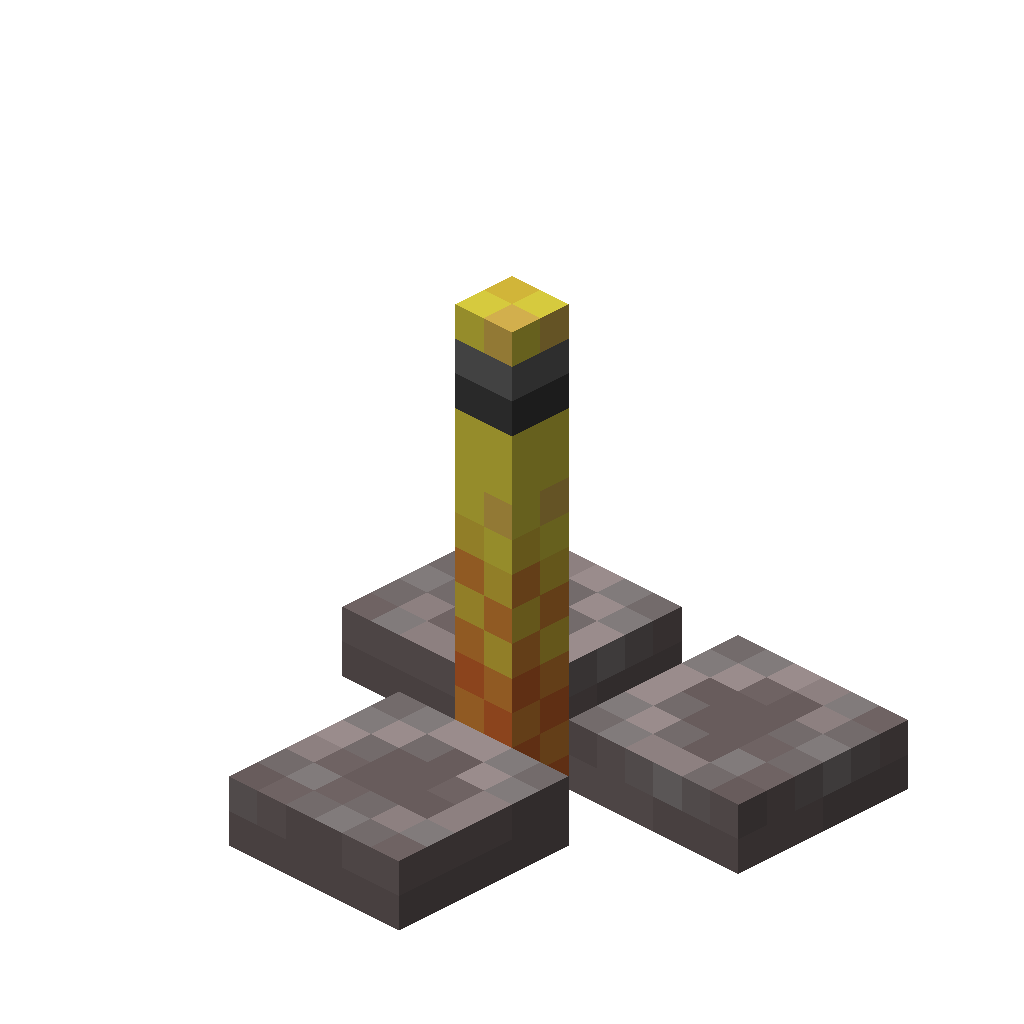
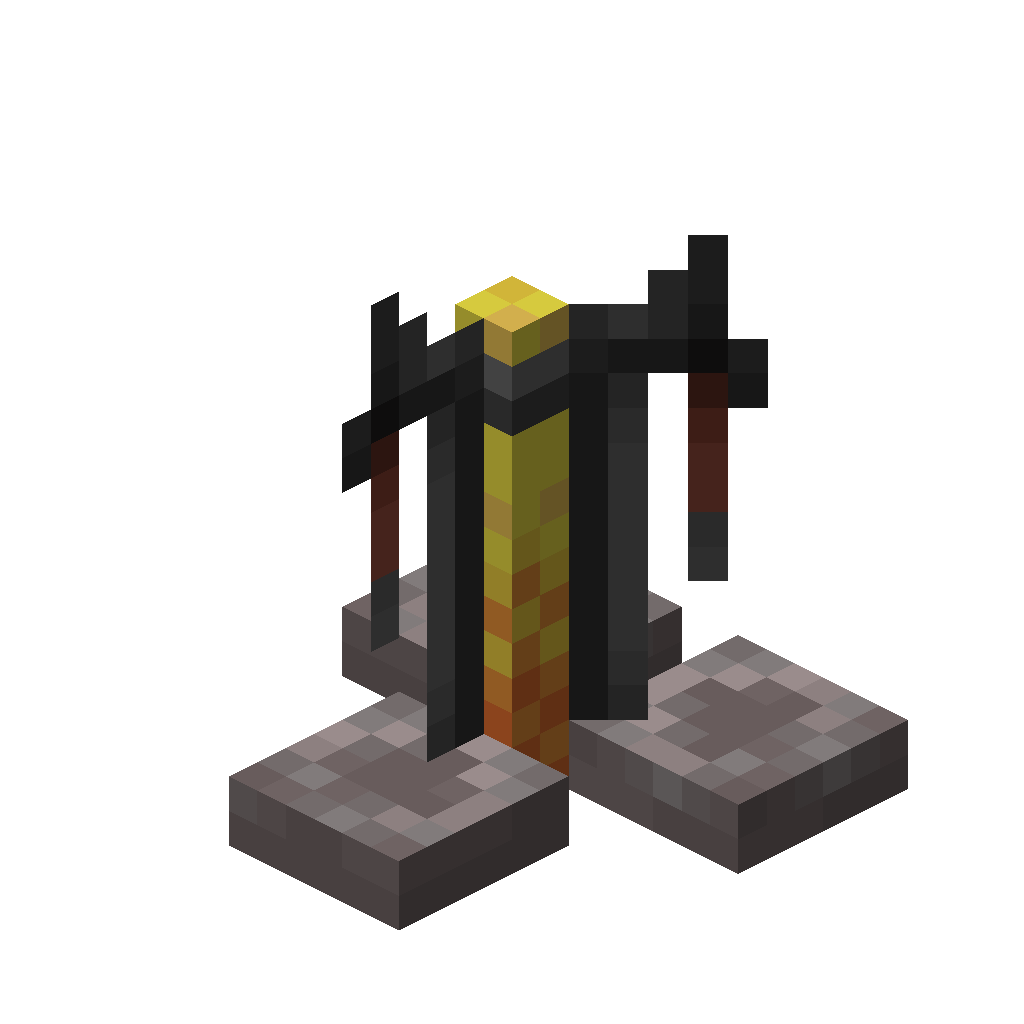
fix brewing stand

Changed region(s): [[0.5312, 0.2188, 0.75, 0.7188], [0.3125, 0.2812, 0.5, 0.75]]

diff --git a/blockmodel-utils.js b/blockmodel-utils.js
@@ -110,6 +110,11 @@ const UNIQUE_DEFAULT_BLOCKSTATES = {
   },
   hopper: {
     facing: "down"
+  },
+  brewing_stand: {
+    has_bottle_0: false,
+    has_bottle_1: false,
+    has_bottle_2: false
   }
 }
 
